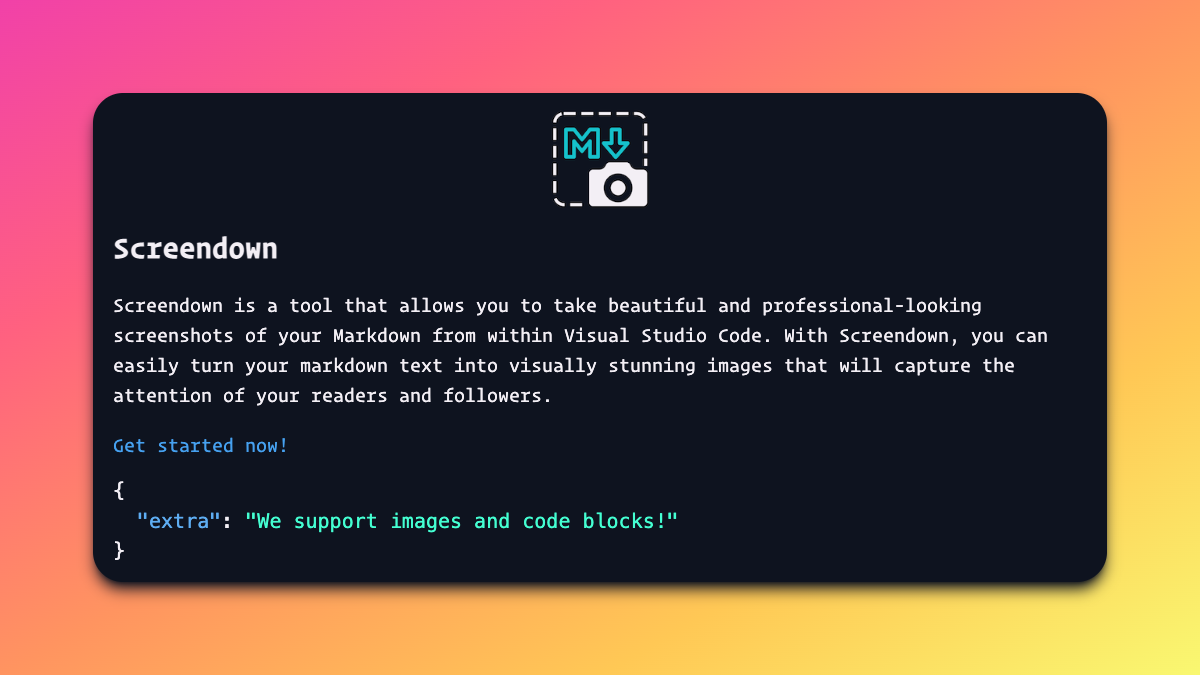
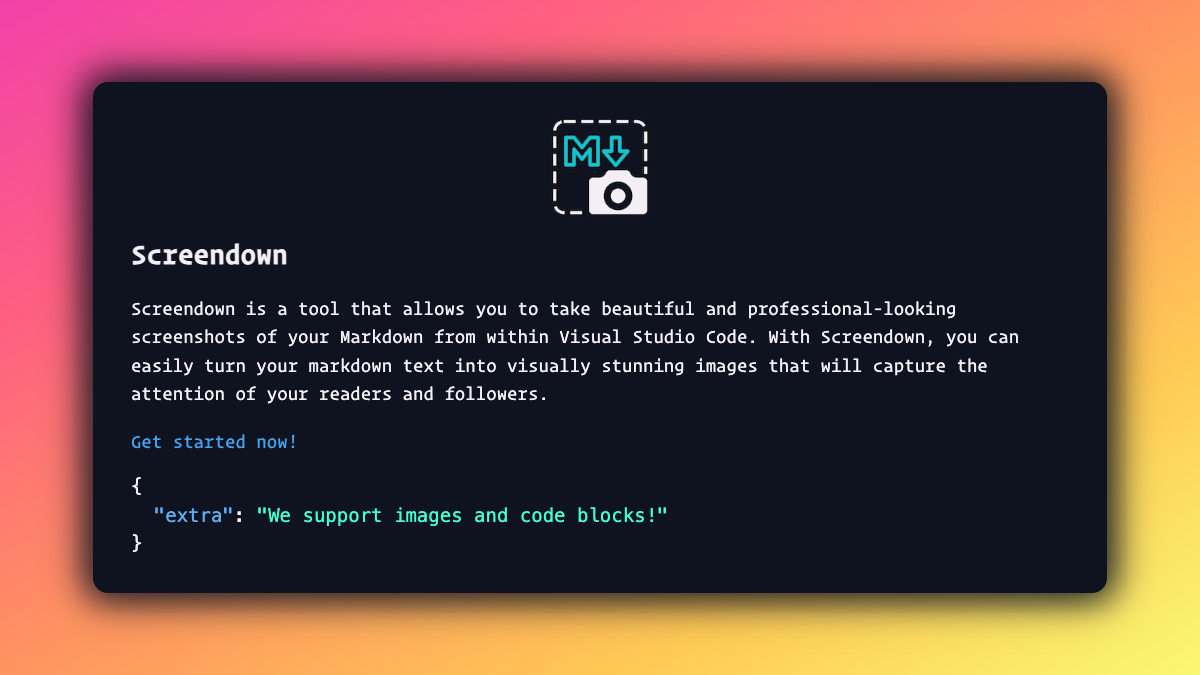
Added shadow support

Changed region(s): [[0.0308, 0.0622, 0.9558, 0.9333], [0.1233, 0.7467, 0.555, 0.8089]]

diff --git a/src/webview/components/FormControl.tsx b/src/webview/components/FormControl.tsx
@@ -120,9 +120,7 @@ export const FormControl: React.FunctionComponent<IFormControlProps> = ({ handle
             onChange={(value: string) => {
               setScreenshotDetails((prev) => ({ ...prev, linkColor: value }));
             }} />
-        </div>
 
-        <div className='flex w-full space-x-4'>
           <StringField
             label={`Background`}
             placeholder={`Background color (ex: #000000)`}
@@ -130,7 +128,9 @@ export const FormControl: React.FunctionComponent<IFormControlProps> = ({ handle
             onChange={(value: string) => {
               setScreenshotDetails((prev) => ({ ...prev, outerBackground: value }));
             }} />
+        </div>
 
+        <div className='flex w-full space-x-4'>
           <NumberField 
             label={`Element width`} 
             placeholder={`Inner width (50-100)`} 
@@ -161,11 +161,23 @@ export const FormControl: React.FunctionComponent<IFormControlProps> = ({ handle
             placeholder={`Set the border radius (1-25)`} 
             value={screenshotDetails.innerBorder < 0 ? Defaults.innerBorder : screenshotDetails.innerBorder} 
             min={0}
-            max={100}
+            max={50}
             step={5}
             isRange
             onChange={(value) => {
               setScreenshotDetails((prev) => ({ ...prev, innerBorder: value }));
+            }} />
+
+          <NumberField 
+            label={`Shadow`} 
+            placeholder={`Set the shadow (0-100)`} 
+            value={screenshotDetails.shadow < 0 ? Defaults.shadow : screenshotDetails.shadow} 
+            min={0}
+            max={100}
+            step={1}
+            isRange
+            onChange={(value) => {
+              setScreenshotDetails((prev) => ({ ...prev, shadow: value }));
             }} />
         </div>
 

diff --git a/src/webview/App.tsx b/src/webview/App.tsx
@@ -36,7 +36,7 @@ export const App: React.FunctionComponent<IAppProps> = ({ webviewUrl, extUrl }: 
   const [loading, setLoading] = useState<boolean>(false);
   const [themeId, setThemeId] = useState<string | undefined>(undefined);
   const [copyToClipboard, setCopyToClipboard] = useState<boolean>(false);
-  const { fontFamily, innerPadding, innerWidth, innerBorder } = useRecoilValue(ScreenshotDetailsState);
+  const { fontFamily, innerPadding, innerWidth, innerBorder, shadow } = useRecoilValue(ScreenshotDetailsState);
   const width = useRecoilValue(WidthState);
   const height = useRecoilValue(HeightState);
 
@@ -276,10 +276,11 @@ export const App: React.FunctionComponent<IAppProps> = ({ webviewUrl, extUrl }: 
                       width: innerWidth ? `${innerWidth}%` : "100%",
                     }}>
                     <div
-                      className='screenshot__wrapper__inner flex flex-col justify-center border-0 h-full space-y-4 p-4 bg-[var(--vscode-editor-background)] shadow-lg shadow-[var(--vscode-editor-background)] w-fit'
+                      className='screenshot__wrapper__inner flex flex-col justify-center border-0 h-full space-y-4 p-4 bg-[var(--vscode-editor-background)] w-fit'
                       style={{
                         padding: innerPadding ? `${innerPadding}em` : "2em",
                         borderRadius: `${innerBorder}px`,
+                        boxShadow: `0 0 ${shadow}px ${shadow/5}px var(--vscode-editor-background)`,
                       }}>
                       <ReactMarkdown 
                         rehypePlugins={[rehypeRaw]}

diff --git a/src/webview/components/NumberField.tsx b/src/webview/components/NumberField.tsx
@@ -27,7 +27,7 @@ export const NumberField: React.FunctionComponent<INumberFieldProps> = ({ label,
   return (
     <div className='w-full'>
       <label htmlFor={label.replace(' ', '-').toLowerCase()} className="block text-sm font-medium text-[var(--vscode-editor-foreground)]">
-        {label}
+        {label} <span className='opacity-70 font-light'>({value})</span>
       </label>
       <div className="mt-1">
         <input

diff --git a/src/webview/state/ScreenshotDetailsState.ts b/src/webview/state/ScreenshotDetailsState.ts
@@ -11,9 +11,10 @@ export const ScreenshotDetailsState = atom<ScreenshotDetails>({
     innerWidth: Defaults.innerWidth,
     innerPadding: Defaults.innerPadding,
     innerBorder: Defaults.innerBorder,
+    shadow: Defaults.shadow,
     linkColor: undefined,
     width: undefined,
     height: undefined,
-    outerBackground: undefined,
+    outerBackground: Defaults.outerBackground,
   } as ScreenshotDetails
 });

diff --git a/src/webview/constants/Defaults.ts b/src/webview/constants/Defaults.ts
@@ -1,8 +1,12 @@
+import { Gradients } from "./Gradients";
+
 export const Defaults = {
   fontSize: 16,
   innerWidth: 100,
   innerPadding: 2,
   innerBorder: 15,
   width: 1200,
-  height: 675
+  height: 675,
+  shadow: 25,
+  outerBackground: Gradients[3],
 }

diff --git a/src/webview/models/ScreenshotDetails.ts b/src/webview/models/ScreenshotDetails.ts
@@ -12,4 +12,5 @@ export interface ScreenshotDetails {
   innerWidth: number;
   innerPadding: number;
   innerBorder: number;
+  shadow: number;
 }

diff --git a/README.md b/README.md
@@ -26,23 +26,22 @@ Screendown is a tool that allows you to take beautiful and professional-looking 
 
 ## Usage
 
-1. Open the command palette (Ctrl+Shift+P)
-2. Search for "Screendown: Take a screenshot"
-3. Select some Markdown text (you can also start with selecting Markdown text)
-4. Click the `Take screenshot` button
+- Open the command palette (Ctrl+Shift+P)
+- Search for "Screendown: Take a screenshot"
+- Select some Markdown text (you can also start with selecting Markdown text)
 
 <p align="center">
-  <img alt="Sample image from Screendown" src="assets/screendown-ui.png">
+  <img alt="Sample image from Screendown" src="assets/screendown-ui.png" width="600px">
 </p>
 
-## Todo
+- Now you can fiddle with the settings to get the perfect image
+- Click the `Take screenshot` button
 
-- [x] Fix UI issues
-- [x] Create predefined sizes
-- [ ] Open the image after creation
-- [x] Copy to clipboard / save to project
-- [ ] Support code snippets
-- [x] Support images
+## Issues/feedback
+
+If you encounter any issues while using Screendown or have feedback on how to enhance its functionality, please feel free to add it to the Github repository's issue list. Your contributions can help improve Screendown and make it an even better tool for everyone.
+
+[Add to our issue list](https://github.com/estruyf/screendown/issues)
 
 <br />
 <br />

diff --git a/CHANGELOG.md b/CHANGELOG.md
@@ -6,6 +6,7 @@
 - Added support for images (locally and remotely)
 - Added support for code snippets
 - Added side bar background as predefined background option
+- Added support to change the shadow
 
 ## [0.0.6] 2023-02-19
 
